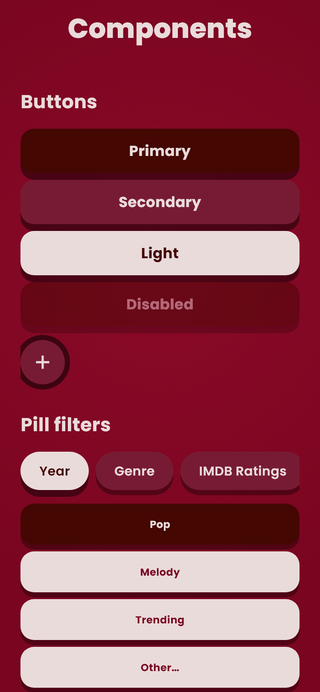
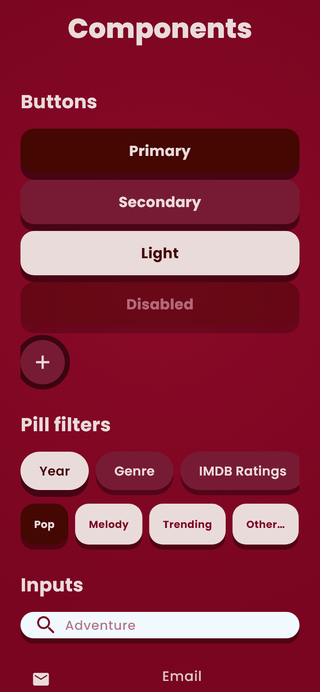
Wire artwork through every list and fix chip sizing
A systematic pass over all 26 golden renders surfaced one repeated bug and
one layout bug.

Artwork: EvcMediaRow was never given imageUrl on the owned/rented/gifted
lists, My Videos, Analytics and the studio's unpublish tab, so every row fell
back to the gradient placeholder. Same for playlist and track rows. The
library category tiles and the studio promo card had no art at all.

Chips: adding an alignment to the tag chip container during the accessibility
pass made it expand to fill the Wrap's loose constraints, stretching every
chip to full width. Replaced with Center(widthFactor: 1), which keeps the
48px minimum tap target without the stretch.

Also: added a scrim behind the library tile labels so they read against any
cover art, and re-cropped the interests background, which had the mockup's
own chips and GO button baked into the photo.

README screenshots regenerated from the corrected goldens.

Changed region(s): [[0.0625, 0.7283, 0.9375, 1.0]]

diff --git a/lib/features/library/library_screen.dart b/lib/features/library/library_screen.dart
@@ -53,18 +53,21 @@ class _LibraryScreenState extends ConsumerState<LibraryScreen> {
             _CategoryTile(
               label: 'Owned',
               kind: OwnershipKind.owned,
+              imageUrl: 'assets/images/art_avengers.png',
               seed: 0,
               onTap: () => context.push('/library/owned'),
             ),
             _CategoryTile(
               label: 'Rented',
               kind: OwnershipKind.rented,
+              imageUrl: 'assets/images/art_eminem.png',
               seed: 1,
               onTap: () => context.push('/library/rented'),
             ),
             _CategoryTile(
               label: 'Gifted',
               kind: OwnershipKind.gifted,
+              imageUrl: 'assets/images/art_cyclops.png',
               seed: 2,
               onTap: () => context.push('/library/gifted'),
             ),
@@ -82,12 +85,14 @@ class _CategoryTile extends ConsumerWidget {
     required this.kind,
     required this.seed,
     required this.onTap,
+    this.imageUrl,
   });
 
   final String label;
   final OwnershipKind kind;
   final int seed;
   final VoidCallback onTap;
+  final String? imageUrl;
 
   @override
   Widget build(BuildContext context, WidgetRef ref) {
@@ -106,33 +111,55 @@ class _CategoryTile extends ConsumerWidget {
         child: Stack(
           fit: StackFit.expand,
           children: [
-            EvcArtwork(seed: seed, borderRadius: AppRadius.cardR),
+            EvcArtwork(
+              imageUrl: imageUrl,
+              seed: seed,
+              borderRadius: AppRadius.cardR,
+            ),
             Positioned(
-              left: AppSpacing.sm,
-              right: AppSpacing.sm,
-              bottom: AppSpacing.sm,
-              child: Column(
-                crossAxisAlignment: CrossAxisAlignment.start,
-                children: [
-                  Text(
-                    label,
-                    style: AppTypography.sectionTitle.copyWith(
-                      color: AppColors.danger,
-                      shadows: const [
-                        Shadow(blurRadius: 8, color: Colors.black87),
-                      ],
-                    ),
+              left: 0,
+              right: 0,
+              bottom: 0,
+              child: Container(
+                padding: const EdgeInsets.fromLTRB(
+                  AppSpacing.sm,
+                  AppSpacing.lg,
+                  AppSpacing.sm,
+                  AppSpacing.sm,
+                ),
+                decoration: const BoxDecoration(
+                  borderRadius: BorderRadius.vertical(
+                    bottom: Radius.circular(AppRadius.card),
                   ),
-                  Text(
-                    '$count ${count == 1 ? 'title' : 'titles'}',
-                    style: AppTypography.caption.copyWith(
-                      color: Colors.white,
-                      shadows: const [
-                        Shadow(blurRadius: 6, color: Colors.black87),
-                      ],
-                    ),
+                  gradient: LinearGradient(
+                    begin: Alignment.topCenter,
+                    end: Alignment.bottomCenter,
+                    colors: [Color(0x00000000), Color(0xE6120306)],
                   ),
-                ],
+                ),
+                child: Column(
+                  crossAxisAlignment: CrossAxisAlignment.start,
+                  children: [
+                    Text(
+                      label,
+                      style: AppTypography.sectionTitle.copyWith(
+                        color: const Color(0xFFFF7C90),
+                        shadows: const [
+                          Shadow(blurRadius: 10, color: Colors.black),
+                        ],
+                      ),
+                    ),
+                    Text(
+                      '$count ${count == 1 ? 'title' : 'titles'}',
+                      style: AppTypography.caption.copyWith(
+                        color: Colors.white,
+                        shadows: const [
+                          Shadow(blurRadius: 6, color: Colors.black87),
+                        ],
+                      ),
+                    ),
+                  ],
+                ),
               ),
             ),
           ],
@@ -158,7 +185,10 @@ class _AddTile extends StatelessWidget {
         child: Stack(
           fit: StackFit.expand,
           children: [
-            EvcArtwork(seed: 4, borderRadius: AppRadius.cardR),
+            const EvcArtwork(
+              imageUrl: 'assets/images/art_ringspower.png',
+              borderRadius: AppRadius.cardR,
+            ),
             const Positioned(
               right: AppSpacing.sm,
               bottom: AppSpacing.sm,
@@ -232,6 +262,7 @@ class _OwnershipListScreenState extends ConsumerState<OwnershipListScreen> {
                     itemCount: items.length,
                     itemBuilder: (context, i) => EvcMediaRow(
                       title: items[i].title,
+                      imageUrl: items[i].imageUrl,
                       rounded: true,
                       seed: i,
                       metaLines: [

diff --git a/lib/core/widgets/evc_pill_filter.dart b/lib/core/widgets/evc_pill_filter.dart
@@ -120,18 +120,22 @@ class EvcTagChip extends StatelessWidget {
       child: AnimatedContainer(
         duration: const Duration(milliseconds: 160),
         constraints: const BoxConstraints(minHeight: 48),
-        alignment: Alignment.center,
         padding: const EdgeInsets.symmetric(horizontal: 16, vertical: 12),
         decoration: BoxDecoration(
           color: selected ? AppColors.deep : AppColors.blush,
           borderRadius: AppRadius.cardR,
           boxShadow: AppShadows.soft,
         ),
-        child: Text(
-          label,
-          style: AppTypography.caption.copyWith(
-            color: selected ? AppColors.blush : AppColors.textOnLight,
-            fontWeight: FontWeight.w700,
+        // Center with widthFactor keeps the 48px minimum height without
+        // letting the chip stretch to the full width of the Wrap.
+        child: Center(
+          widthFactor: 1,
+          child: Text(
+            label,
+            style: AppTypography.caption.copyWith(
+              color: selected ? AppColors.blush : AppColors.textOnLight,
+              fontWeight: FontWeight.w700,
+            ),
           ),
         ),
       ),

diff --git a/lib/features/onboarding/interests_screen.dart b/lib/features/onboarding/interests_screen.dart
@@ -20,16 +20,21 @@ class InterestsScreen extends ConsumerWidget {
       body: Stack(
         fit: StackFit.expand,
         children: [
-          Image.asset('assets/images/interest_bg.png', fit: BoxFit.cover),
+          Image.asset(
+            'assets/images/interest_bg.png',
+            fit: BoxFit.cover,
+            alignment: Alignment.bottomCenter,
+          ),
           DecoratedBox(
             decoration: BoxDecoration(
               gradient: LinearGradient(
                 begin: Alignment.topCenter,
                 end: Alignment.bottomCenter,
+                stops: const [0.0, 0.45, 1.0],
                 colors: [
                   AppColors.base,
-                  AppColors.base.withValues(alpha: 0.82),
-                  AppColors.deep.withValues(alpha: 0.9),
+                  AppColors.base.withValues(alpha: 0.7),
+                  AppColors.deep.withValues(alpha: 0.92),
                 ],
               ),
             ),

diff --git a/lib/features/music/music_screen.dart b/lib/features/music/music_screen.dart
@@ -144,7 +144,11 @@ class _PlaylistList extends StatelessWidget {
                             ),
                           ),
                         )
-                      : EvcArtwork(seed: i, borderRadius: BorderRadius.zero),
+                      : EvcArtwork(
+                          imageUrl: playlist.imageUrl,
+                          seed: i,
+                          borderRadius: BorderRadius.zero,
+                        ),
                 ),
                 Container(
                   width: 150,
@@ -207,7 +211,11 @@ class _TrackList extends ConsumerWidget {
           leading: SizedBox(
             width: 52,
             height: 52,
-            child: EvcArtwork(seed: i, borderRadius: AppRadius.posterR),
+            child: EvcArtwork(
+              imageUrl: track.imageUrl,
+              seed: i,
+              borderRadius: AppRadius.posterR,
+            ),
           ),
           title: Text(
             track.title,

diff --git a/lib/features/creator/creator_studio_screen.dart b/lib/features/creator/creator_studio_screen.dart
@@ -78,7 +78,10 @@ class _PublishTab extends ConsumerWidget {
             children: [
               const AspectRatio(
                 aspectRatio: 16 / 9,
-                child: EvcArtwork(seed: 1, borderRadius: BorderRadius.zero),
+                child: EvcArtwork(
+                  imageUrl: 'assets/images/studio_promo.png',
+                  borderRadius: BorderRadius.zero,
+                ),
               ),
               Padding(
                 padding: const EdgeInsets.all(AppSpacing.md),
@@ -158,6 +161,7 @@ class _UnpublishTab extends ConsumerWidget {
       itemCount: items.length,
       itemBuilder: (context, i) => EvcMediaRow(
         title: items[i].title,
+        imageUrl: items[i].imageUrl,
         seed: i,
         metaLines: [
           if (items[i].views != null) '${items[i].views} views',

diff --git a/lib/features/creator/analytics_screen.dart b/lib/features/creator/analytics_screen.dart
@@ -47,6 +47,7 @@ class AnalyticsScreen extends ConsumerWidget {
             for (var i = 0; i < items.length; i++)
               EvcMediaRow(
                 title: items[i].title,
+                imageUrl: items[i].imageUrl,
                 seed: i,
                 metaLines: [
                   if (items[i].views != null) items[i].views!,
@@ -91,6 +92,7 @@ class MyVideosScreen extends ConsumerWidget {
               itemCount: items.length,
               itemBuilder: (context, i) => EvcMediaRow(
                 title: items[i].title,
+                imageUrl: items[i].imageUrl,
                 seed: i,
                 metaLines: [
                   if (items[i].views != null) items[i].views!,

diff --git a/lib/data/mock/mock_data.dart b/lib/data/mock/mock_data.dart
@@ -279,12 +279,14 @@ abstract final class MockData {
       name: 'Relaxing',
       owner: 'Namal Rashmika',
       trackIds: ['t5', 't6'],
+      imageUrl: 'assets/images/pl_relaxing.png',
     ),
     Playlist(
       id: 'pl3',
       name: 'Workout',
       owner: 'Namal Rashmika',
       trackIds: ['t3', 't4'],
+      imageUrl: 'assets/images/art_goku.png',
     ),
   ];
 

diff --git a/lib/features/music/playlist_screen.dart b/lib/features/music/playlist_screen.dart
@@ -70,6 +70,7 @@ class PlaylistScreen extends ConsumerWidget {
                           width: 52,
                           height: 52,
                           child: EvcArtwork(
+                            imageUrl: track.imageUrl,
                             seed: i,
                             borderRadius: AppRadius.posterR,
                           ),
